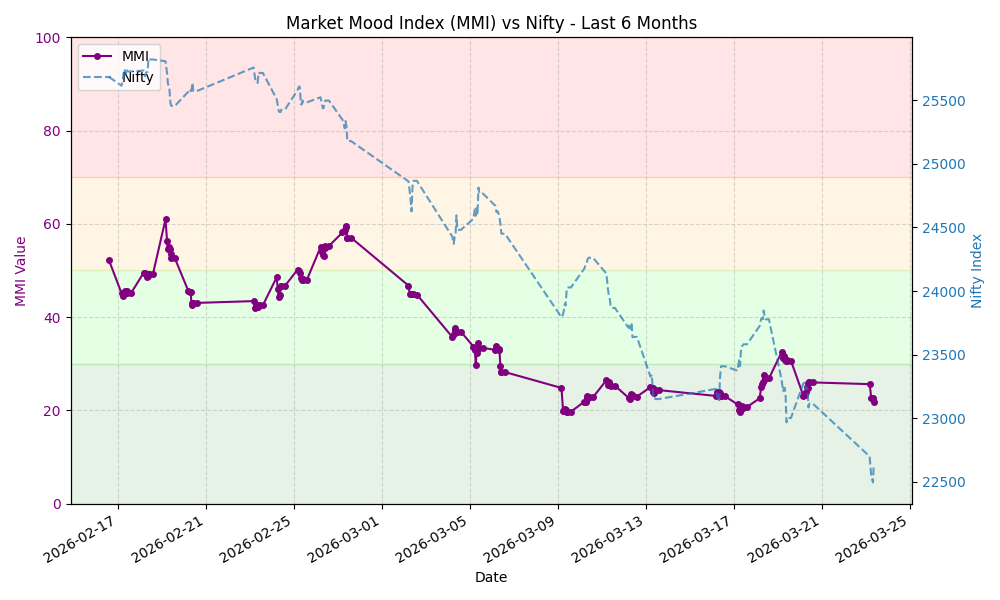
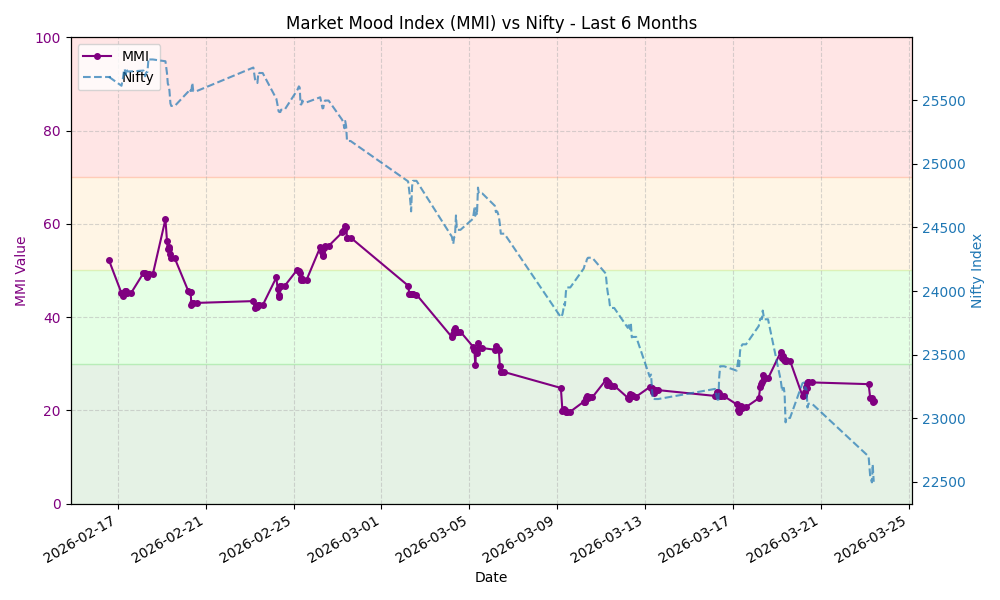
Update MMI data and chart

diff --git a/README.md b/README.md
@@ -7,8 +7,8 @@ This repository automatically fetches the MMI value, stores the history, and gen
 
 ## Latest MMI Value
 
-**21.86** - **Extreme Fear**
-<small>Last Updated: 2026-03-23 08:39 UTC</small>
+**22.06** - **Extreme Fear**
+<small>Last Updated: 2026-03-23 09:48 UTC</small>
 
 ## MMI Trend (Last 30 Days)
 
